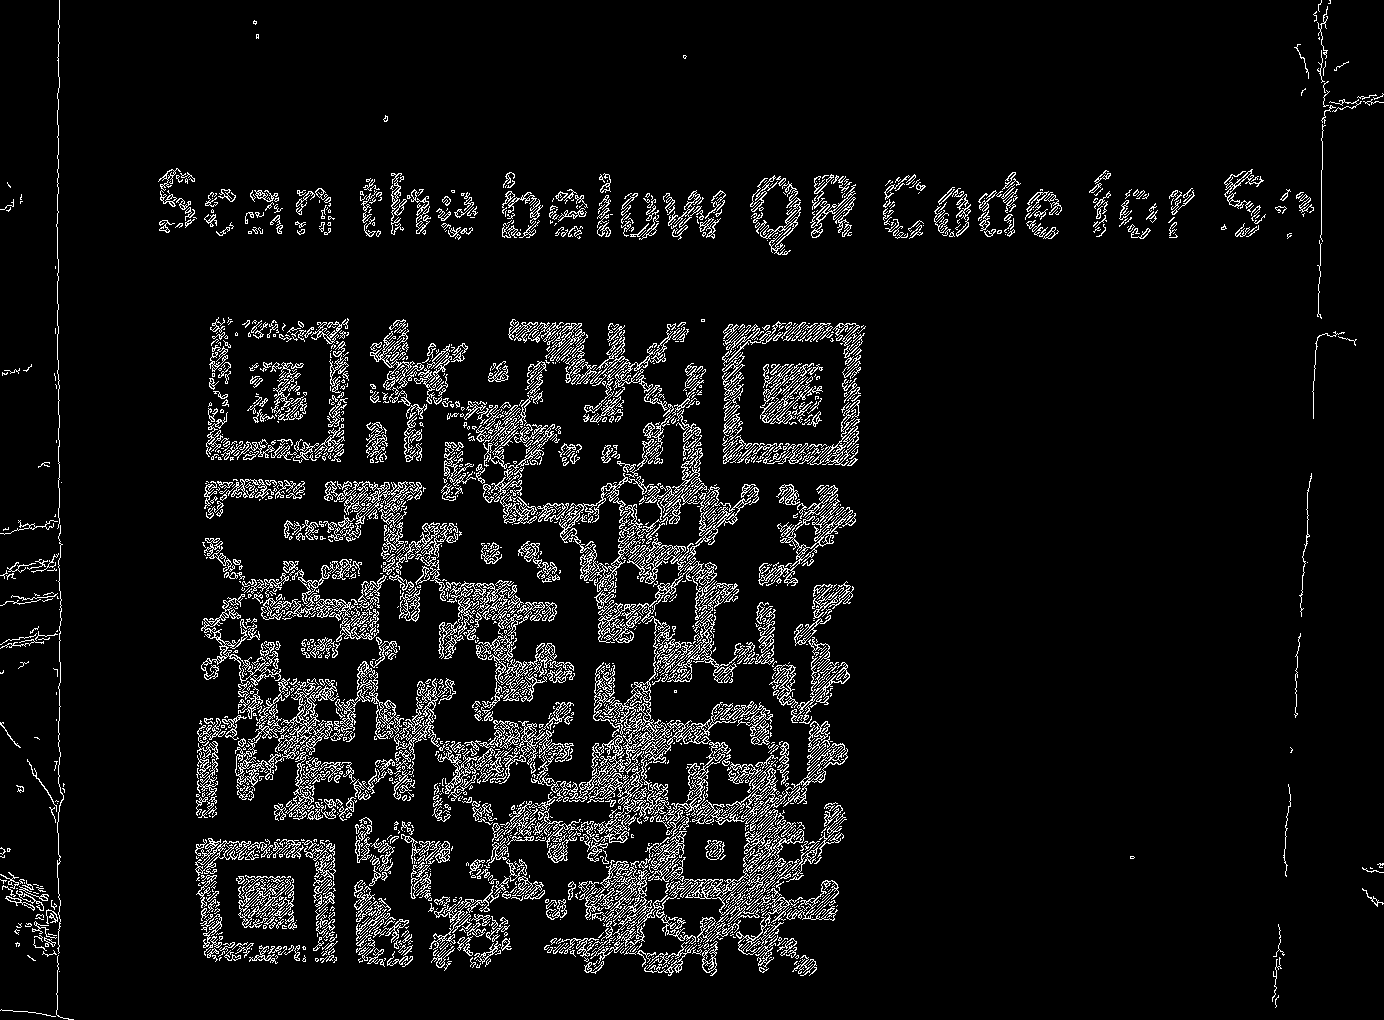
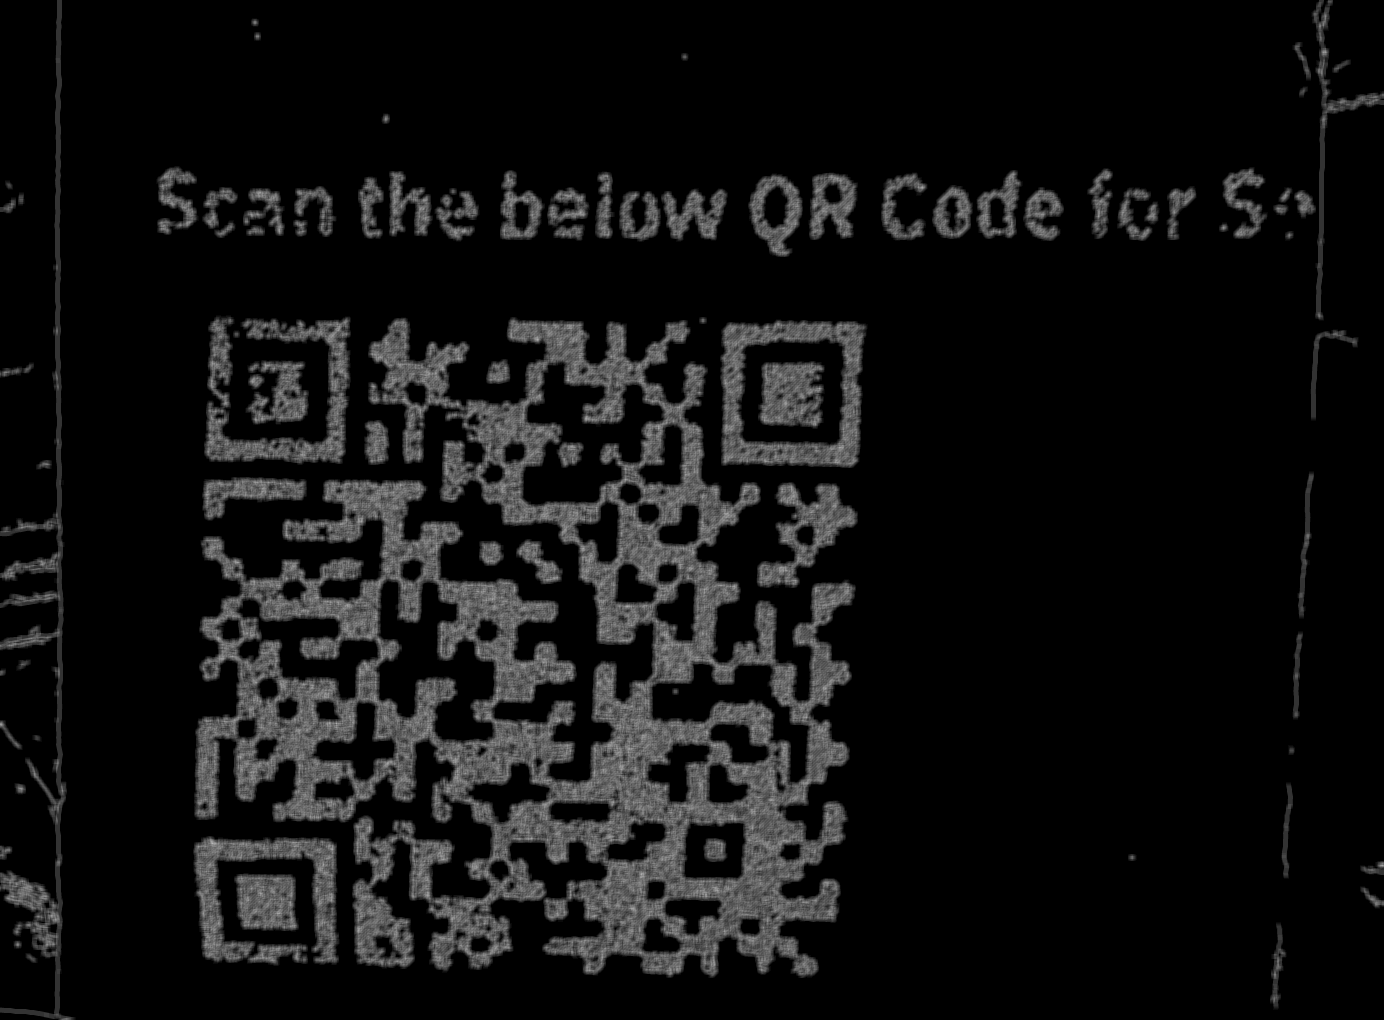
doesn't work after blurring

diff --git a/main.py b/main.py
@@ -1,6 +1,7 @@
 import cv2
 import pygame
 import sys
+import numpy as np
 image = cv2.imread('qr.png', cv2.IMREAD_GRAYSCALE)
 threshold1 = int(sys.argv[1]) if len(sys.argv) > 1 else 80
 threshold2 = int(sys.argv[2]) if len(sys.argv) > 2 else 200
@@ -11,7 +12,9 @@ print(th)
 # im_color = cv2.cvtColor(im_th_gray, cv2.COLOR_GRAY2BGR)
 # cv2.drawContours(im_color, contours, -1, (0, 0, 255), 1)
 edges = cv2.Canny(image=image, threshold1=threshold1, threshold2=threshold2)
-cv2.imwrite('qr2.png', edges)
+kernel = np.ones((5,5),np.float32)/25
+dst = cv2.filter2D(edges,-1,kernel)
+cv2.imwrite('qr2.png', dst)
 
 # otsu bad 170 b/w
 # pygame.init()
